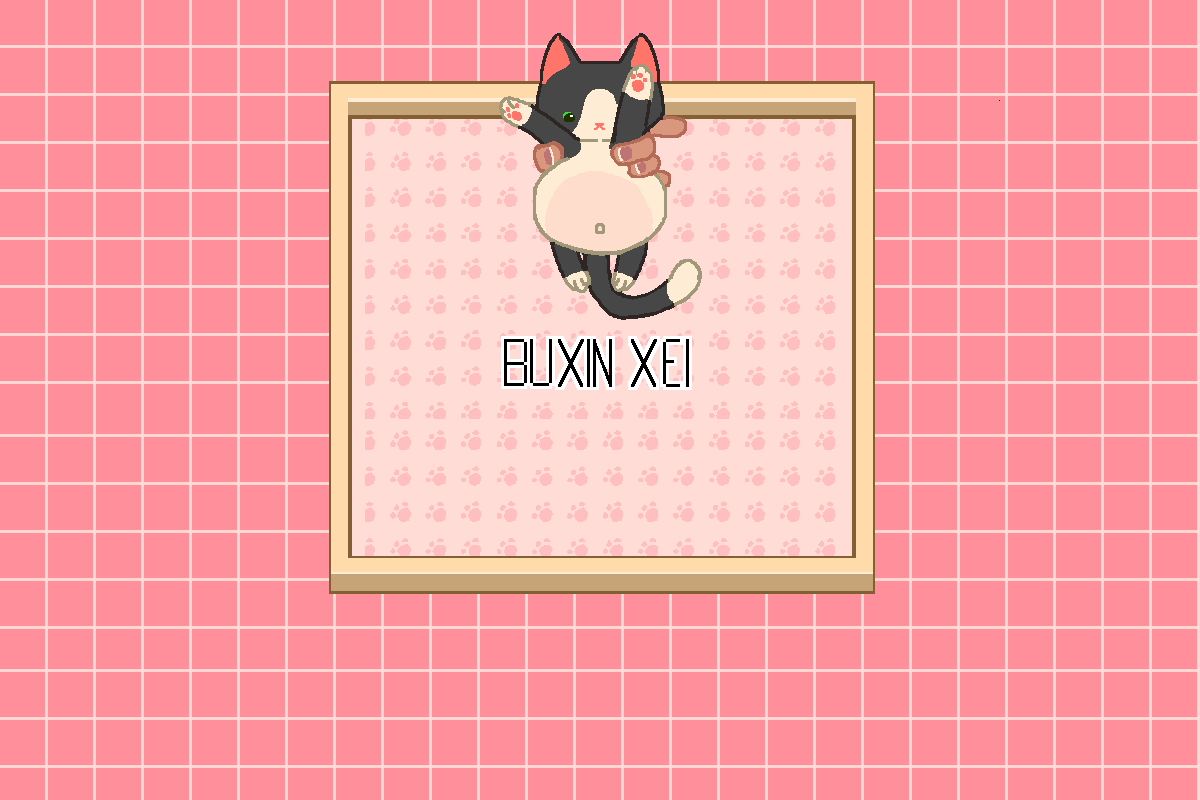
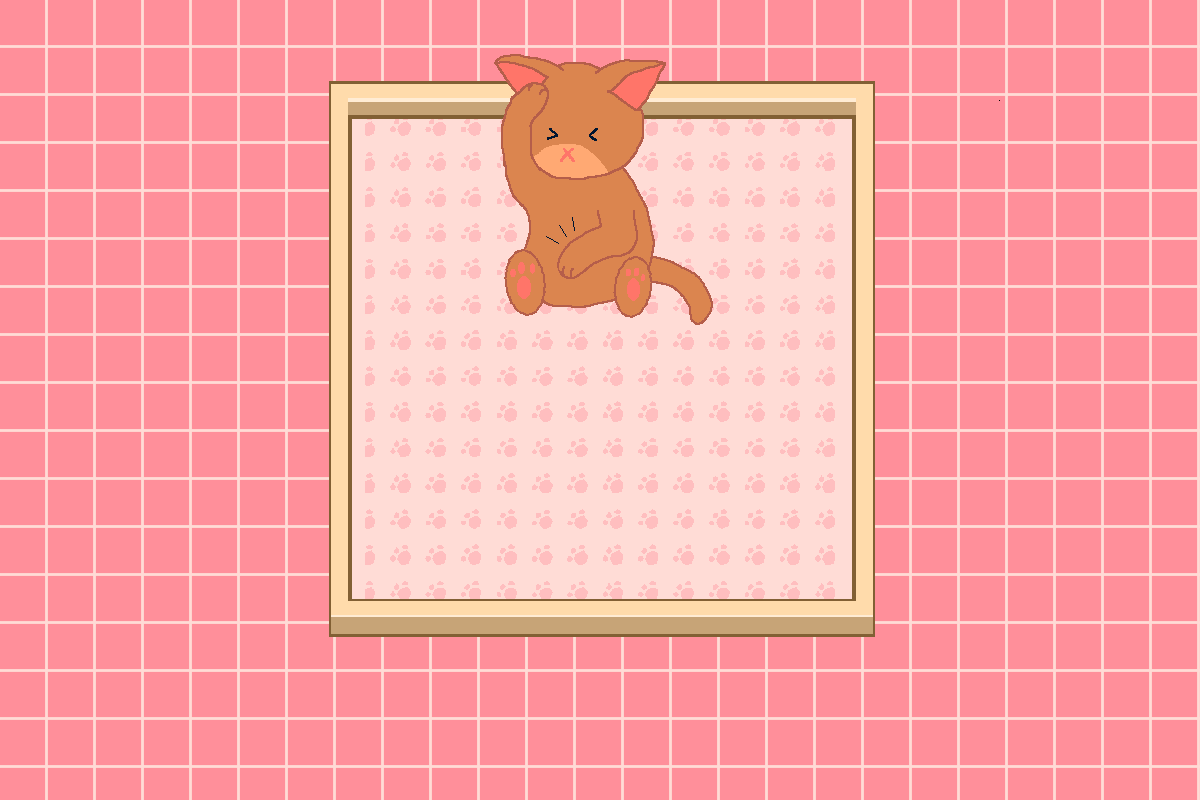
game over screen + win condition

diff --git a/screens/game_screen.py b/screens/game_screen.py
@@ -1,6 +1,6 @@
 from types import new_class
 from screens.screen import Button, Screen
-from config import GAME_SCREEN, INITIAL_SCREEN, TILES_SIZE, LINE, CURVE, TAIL, HEAD_CURVE, HEAD_UNDER, HEAD, SIZES, PAUSE_SCREEN
+from config import GAME_SCREEN, END_GAME_SCREEN, INITIAL_SCREEN, TILES_SIZE, LINE, CURVE, TAIL, HEAD_CURVE, HEAD_UNDER, HEAD, SIZES, PAUSE_SCREEN
 import pygame
 import random
 import time
@@ -45,7 +45,7 @@ class GameScreen(Screen):
         self.start_x = (self.width - self.tiles*TILES_SIZE)/2
         self.start_y = (50 + self.height - self.tiles*TILES_SIZE)/2
         self.buttons = [
-            Button("imgs/button_config.png", 1010, 10, 88, 88, lambda: self.change_screen(PAUSE_SCREEN))
+            Button("imgs/button_pause.png", 1010, 10, 88, 88, lambda: self.change_screen(PAUSE_SCREEN))
         ]
         self.head = (self.tiles/2, self.tiles/2)
 
@@ -118,6 +118,7 @@ class GameScreen(Screen):
 
             if self.running_animation and self.animation == 4:
                 time.sleep(1)
+                self.change_screen(END_GAME_SCREEN)
                 self.running_animation = False
                 self.animation = 0
                 self.head = (self.tiles/2, self.tiles/2)
@@ -125,6 +126,9 @@ class GameScreen(Screen):
 
             if self.head == self.food:
                 self.points += 1
+                if self.points == (self.tiles**2 - 2):
+                    time.sleep(1)
+                    self.change_screen(END_GAME_SCREEN)
                 if len(self.cat) == 0:
                     self.cat.append(self.head)
                 self.cat.append(last_pos)

diff --git a/screens/end_game_screen.py b/screens/end_game_screen.py
@@ -1,0 +1,42 @@
+from screens.screen import Screen, Button
+from config import PAUSE_SCREEN, GAME_SCREEN, CONFIG_SCREEN
+import pygame
+
+class EndGameScreen(Screen):
+    def __init__(self):
+        super().__init__(PAUSE_SCREEN, PAUSE_SCREEN)
+
+        self.buttons = [
+            Button("imgs/button_play_again.png", 900, 900, 250, 100, lambda: self.change_screen(GAME_SCREEN)),
+            Button("imgs/button_config.png", 400, 500, 88, 85, lambda: self.change_screen(CONFIG_SCREEN)),
+        ]
+
+        self.bg = pygame.image.load("imgs/game_over_bg.png")
+
+    def keyboard_events(self):
+        pass
+
+    def game(self):
+        pass
+
+    def draw(self):
+        super().draw_frame()
+
+        self.buttons[0].set_pos(410 - 50 + self.transition_animation * (50 / self.transition), 430)
+        self.buttons[1].set_pos(675 + 50 - self.transition_animation * (50 / self.transition), 430)
+
+        pygame.display.set_caption("Snakat - Game Over")
+        self.surface.blit(pygame.transform.scale(self.bg, (self.width, self.height)), (0, 0))
+        self.draw_buttons()
+        self.surface.blit(self.light, (0, 0))
+    
+    def screen_in(self, old_screen):
+        self = super().screen_in(old_screen)
+        self.food_img = old_screen.food_img
+        self.points = old_screen.points
+        self.tiles = old_screen.tiles
+        
+        if self.points == (self.tiles**2 - 2):
+            self.bg = pygame.image.load("imgs/game_over_win_bg.png")
+
+        return self

diff --git a/screens/pause_screen.py b/screens/pause_screen.py
@@ -7,8 +7,8 @@ class PauseScreen(Screen):
         super().__init__(PAUSE_SCREEN, PAUSE_SCREEN)
 
         self.buttons = [
-            Button("imgs/button_play.png", 900, 900, 191, 100, lambda: self.change_screen(GAME_SCREEN)),
-            Button("imgs/button_play.png", 400, 500, 191, 100, lambda: self.change_screen(INITIAL_SCREEN)),
+            Button("imgs/button_resume.png", 900, 900, 250, 100, lambda: self.change_screen(GAME_SCREEN)),
+            Button("imgs/button_reset.png", 400, 500, 191, 100, lambda: self.change_screen(INITIAL_SCREEN)),
         ]
 
         self.bg = pygame.image.load("imgs/pause_bg.png")
@@ -22,8 +22,8 @@ class PauseScreen(Screen):
     def draw(self):
         super().draw_frame()
 
-        self.buttons[0].set_pos(510 - 50 + self.transition_animation * (50 / self.transition), 300)
-        self.buttons[1].set_pos(510 + 50 - self.transition_animation * (50 / self.transition), 400)
+        self.buttons[0].set_pos(480 - 50 + self.transition_animation * (50 / self.transition), 310)
+        self.buttons[1].set_pos(510 + 50 - self.transition_animation * (50 / self.transition), 410)
 
         pygame.display.set_caption("Snakat - Pause")
         self.surface.blit(pygame.transform.scale(self.bg, (self.width, self.height)), (0, 0))

diff --git a/main.py b/main.py
@@ -4,9 +4,10 @@ from screens.game_screen import GameScreen
 from screens.initial_screen import InitialScreen
 from screens.config_screen import ConfigScreen
 from screens.pause_screen import PauseScreen
+from screens.end_game_screen import EndGameScreen
 
 game_loop = True
-SCREENS = [InitialScreen(), ConfigScreen(), GameScreen(), PauseScreen()]
+SCREENS = [InitialScreen(), ConfigScreen(), GameScreen(), PauseScreen(), EndGameScreen()]
 screen = SCREENS[INITIAL_SCREEN].screen_in()
 screen_state = INITIAL_SCREEN
 

diff --git a/config.py b/config.py
@@ -5,6 +5,7 @@ INITIAL_SCREEN = 0
 CONFIG_SCREEN = 1
 GAME_SCREEN = 2
 PAUSE_SCREEN = 3
+END_GAME_SCREEN = 4
 
 # top, right, bottom, left
 HEAD = 0
